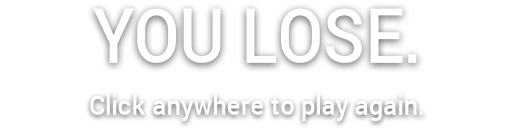
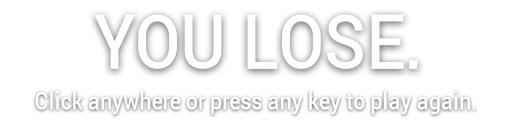
adding lose screen

Changed region(s): [[0.0625, 0.7188, 0.9375, 1.0], [0.4688, 0.0312, 0.8438, 0.5938], [0.1562, 0.0312, 0.4375, 0.5938]]

diff --git a/Prime/Prime/Prime.cs b/Prime/Prime/Prime.cs
@@ -45,6 +45,8 @@ namespace Prime
 
         public static Random rand = new Random();
 
+        Texture2D lostTex;
+        Texture2D rektTex;
         Texture2D meterTex;
         Texture2D meterFillTex;
 
@@ -89,6 +91,9 @@ namespace Prime
             player = new Player(Content.Load<Texture2D>("player"), screenRectangle);
             enemy = new Enemy(Content.Load<Texture2D>("enemy"), screenRectangle);
 
+            lostTex = Content.Load<Texture2D>("lose");
+            rektTex = Content.Load<Texture2D>("semitransparent");
+
             meterTex = Content.Load<Texture2D>("meter");
             meterFillTex = Content.Load<Texture2D>("meter-fill");
 
@@ -120,12 +125,18 @@ namespace Prime
 
             // TODO: Add your update logic here
 
-            CheckBoard();
-
             helper.Update();
-            player.Update();
-            enemy.Update();
-            board.Update();
+            if (!lost)
+            {
+                CheckBoard();
+                player.Update();
+                enemy.Update();
+                board.Update();
+            }
+            else
+            {
+                
+            }
 
             base.Update(gameTime);
         }
@@ -185,6 +196,12 @@ namespace Prime
 
             player.Draw(spriteBatch);
             enemy.Draw(spriteBatch);
+
+            if (lost)
+            {
+                spriteBatch.Draw(rektTex, new Rectangle(0, 0, screenRectangle.Width, screenRectangle.Height), Color.White);
+                spriteBatch.Draw(lostTex, new Rectangle(screenRectangle.Width / 4, screenRectangle.Width / 4, screenRectangle.Width / 2, screenRectangle.Width / 8), Color.White);
+            }
 
             spriteBatch.End();
 

diff --git a/Prime/Prime/Enemy.cs b/Prime/Prime/Enemy.cs
@@ -45,6 +45,10 @@ namespace Prime
 
         public void Update()
         {
+            if (coords.X == Prime.player.coords.X && coords.Y == Prime.player.coords.Y)
+            {
+                Prime.lost = true;
+            }
             frames += 1;
             if (Prime.level < 7)
             {
